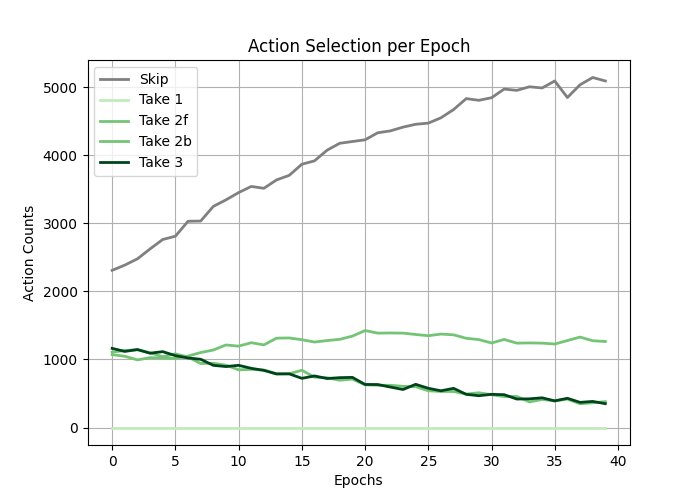
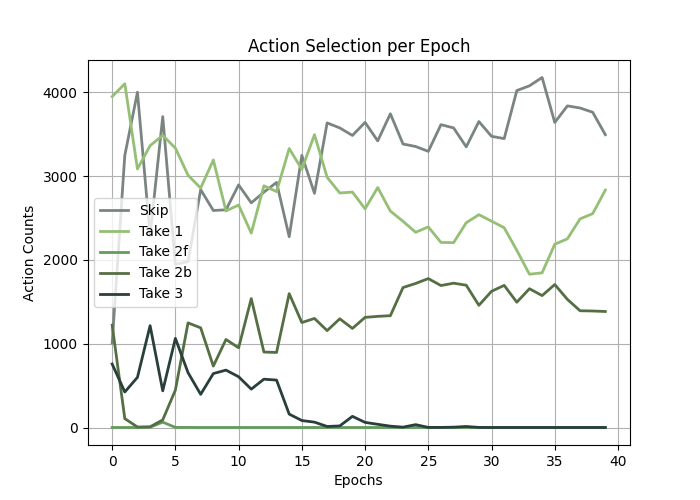
paper work

diff --git a/retrieval/retrieval_5_1_rl_train.py b/retrieval/retrieval_5_1_rl_train.py
@@ -23,7 +23,7 @@ random.seed(1)
 torch.manual_seed(1)
 
 
-def evaluate(data, query_ids, online_net, device, max_exp_loops):
+def evaluate(data, query_ids, online_net, device, max_exp_loops, history, epoch):
     """Evaluate the model on validation set without training"""
     val_reward = 0
     val_f1_score = 0
@@ -34,6 +34,8 @@ def evaluate(data, query_ids, online_net, device, max_exp_loops):
     a3 = 0
     a1 = 0
     s = 0
+
+    epoch_counts = {'skip': 0, 'take_1': 0, 'take_2n': 0, 'take_2p': 0, 'take_3': 0}
 
     for query_id in query_ids:
         query = data.get_query_obj_from_id(query_id)
@@ -68,19 +70,19 @@ def evaluate(data, query_ids, online_net, device, max_exp_loops):
 
                 if action == 0:
                     next_emb, next_meta, reward, done, truncated = topic.skip()
-                    #s += 1
+                    epoch_counts['skip'] += 1
                 elif action == 1:
                     next_emb, next_meta, reward, done, truncated= topic.take_single()
-                    #a1 += 1
+                    epoch_counts['take_1'] += 1
                 elif action == 2:
                     next_emb, next_meta, reward, done, truncated = topic.take_double()
-                    #a2f += 1
+                    epoch_counts['take_2n'] += 1
                 elif action == 3:
                     next_emb, next_meta, reward, done, truncated = topic.take_prev_double()
-                    #a2b += 1
+                    epoch_counts['take_2p'] += 1
                 elif action == 4:
                     next_emb, next_meta, reward, done, truncated = topic.take_triple()
-                    #a3 += 1
+                    epoch_counts['take_3'] += 1
 
                 logging.info(f"{action_log}, Action Code: {action}, Reward: {reward:.4f}")
 
@@ -101,10 +103,12 @@ def evaluate(data, query_ids, online_net, device, max_exp_loops):
     avg_val_f1_score = val_f1_score / len(query_ids)
     avg_val_recall = val_recall / len(query_ids)
     avg_val_precision = val_precision / len(query_ids)
+    epoch_counts['epoch'] = epoch
+    history.append(epoch_counts)
 
     #print(s, a1, a2f, a2b, a3)
 
-    return avg_val_reward, avg_val_f1_score, avg_val_recall, avg_val_precision
+    return avg_val_reward, avg_val_f1_score, avg_val_recall, avg_val_precision, history
 
 def train():
 
@@ -142,6 +146,7 @@ def train():
     eta_min = 3e-6
     warm_up_epoches = 20
     neg_schedule = torch.linspace(0.30, 0.50, steps=50)
+    history = []
 
 
     es = EarlyStopping(patience=10, delta_ratio=0.001) #12? #15? #10?
@@ -177,12 +182,10 @@ def train():
     val_rewards = []
     train_recalls = []
     val_recalls = []
-    history = []
     for epoch in range(epochs):
         online_net.train()
         epoch_reward = 0
         epoch_f1_score = 0
-        epoch_counts = {'skip': 0, 'take_1': 0, 'take_2n': 0, 'take_2p': 0, 'take_3': 0}
         random.shuffle(train_set)
 
         # Log current learning rate
@@ -237,20 +240,14 @@ def train():
 
                 if action == 0:
                     next_emb, next_meta, reward, done, truncated = topic.skip()
-                    epoch_counts['skip'] += 1
                 elif action == 1:
                     next_emb, next_meta, reward, done, truncated= topic.take_single()
-                    epoch_counts['take_1'] += 1
                 elif action == 2:
                     next_emb, next_meta, reward, done, truncated = topic.take_double()
-                    epoch_counts['take_2n'] += 1
                 elif action == 3:
                     next_emb, next_meta, reward, done, truncated = topic.take_prev_double()
-                    epoch_counts['take_2p'] += 1
                 elif action == 4:
                     next_emb, next_meta, reward, done, truncated = topic.take_triple()
-                    epoch_counts['take_3'] += 1
-
                 #logging.info(f"{action_log}, Action Code: {action}, Reward: {reward:.4f}, Rand: {int(rand)}")
 
                 next_emb = next_emb.to(device)
@@ -321,25 +318,23 @@ def train():
 
         scheduler.step()
 
-        epoch_counts['epoch'] = epoch
-        history.append(epoch_counts)
 
         online_net.eval()
 
-        avg_train_reward, avg_train_f1_score, recall_train, precision_train = evaluate(
-            data, train_set, online_net, device,
-            max_exp_loops
-        )
-        logging.info(f"GREEDY: Train Reward: {avg_train_reward:.4f}, Val F1: {avg_train_f1_score:.4f}")
-        print(f"GREEDY: Train - Reward: {avg_train_reward:.4f}, F1: {avg_train_f1_score:.4f}, Recall {recall_train:.4f}, Precision {precision_train:.4f}")
-        train_f1_scores.append(avg_train_f1_score)
-        train_rewards.append(avg_train_reward)
-        train_recalls.append(recall_train)
+        # avg_train_reward, avg_train_f1_score, recall_train, precision_train, history = evaluate(
+        #     data, train_set, online_net, device,
+        #     max_exp_loops, history, epoch
+        # )
+        # logging.info(f"GREEDY: Train Reward: {avg_train_reward:.4f}, Val F1: {avg_train_f1_score:.4f}")
+        # print(f"GREEDY: Train - Reward: {avg_train_reward:.4f}, F1: {avg_train_f1_score:.4f}, Recall {recall_train:.4f}, Precision {precision_train:.4f}")
+        # train_f1_scores.append(avg_train_f1_score)
+        # train_rewards.append(avg_train_reward)
+        # train_recalls.append(recall_train)
 
 
-        avg_val_reward, avg_val_f1_score, recall_val, precision_val = evaluate(
+        avg_val_reward, avg_val_f1_score, recall_val, precision_val, history = evaluate(
             data, validation_set, online_net, device,
-            max_exp_loops
+            max_exp_loops, history, epoch
         )
         logging.info(f"GREEDY: Val Reward: {avg_val_reward:.4f}, Val F1: {avg_val_f1_score:.4f}")
         print(f"GREEDY: Validation - Reward: {avg_val_reward:.4f}, F1: {avg_val_f1_score:.4f}, Recall {recall_val:.4f}, Precision {precision_val:.4f}")
@@ -388,11 +383,11 @@ def train():
     plt.figure(figsize=(7, 5))
 
     # Plot each series manually to control colors exactly
-    plt.plot(df['skip'], label='Skip', color='grey', linewidth=2)
-    plt.plot(df['take_1'], label='Take 1', color='#C2EABD', linewidth=2)    # Light Green
-    plt.plot(df['take_2p'], label='Take 2f', color='#74C476', linewidth=2)  # Mid Green
-    plt.plot(df['take_2n'], label='Take 2b', color='#74C476', linewidth=2)  # Mid Green
-    plt.plot(df['take_3'], label='Take 3', color='#00441B', linewidth=2)    # Dark Green
+    plt.plot(df['skip'], label='Skip', color='#7A8582', linewidth=2)
+    plt.plot(df['take_1'], label='Take 1', color='#95bf74', linewidth=2)    # Light Green
+    plt.plot(df['take_2p'], label='Take 2f', color='#659b5e', linewidth=2)  # Mid Green
+    plt.plot(df['take_2n'], label='Take 2b', color='#556f44', linewidth=2)  # Mid Green
+    plt.plot(df['take_3'], label='Take 3', color='#283f3b', linewidth=2)    # Dark Green
 
     plt.legend()
     plt.xlabel('Epochs')

diff --git a/retrieval/retrieval_5_3_analysis.py b/retrieval/retrieval_5_3_analysis.py
@@ -132,6 +132,8 @@ def process_all_queries(final_data, completeness_threshold, topk, return_avg_sco
     cos_sim_recall_scores = []
     cos_sim_precision_scores = []
     cos_sim_fpr_scores = []
+    rl_cm = {'TP': 0, 'FP': 0, 'FN': 0, 'TN': 0}
+    cs_cm = {'TP': 0, 'FP': 0, 'FN': 0, 'TN': 0}
 
 
     for item in final_data:
@@ -181,6 +183,24 @@ def process_all_queries(final_data, completeness_threshold, topk, return_avg_sco
                 
         rl_f1, rl_recall, rl_precision, rl_fpr = f1_score(rl_model_retrieved_filtered, relevant_chunks_filtered, item['total_chunks_count'])
         cos_sim_f1, cos_sim_recall, cos_sim_precision, cos_sim_fpr = f1_score(cos_sim_retrieved_chunks_filtered, relevant_chunks_filtered, item['total_chunks_count'])
+
+        rl_tp = len(set(rl_model_retrieved_filtered) & set(relevant_chunks_filtered))
+        rl_fp = len(set(rl_model_retrieved_filtered) - set(relevant_chunks_filtered))
+        rl_fn = len(set(relevant_chunks_filtered) - set(rl_model_retrieved_filtered))
+        rl_tn = item['total_chunks_count'] - (rl_tp + rl_fp + rl_fn)
+        rl_cm['TP'] += rl_tp
+        rl_cm['FP'] += rl_fp
+        rl_cm['FN'] += rl_fn
+        rl_cm['TN'] += rl_tn
+
+        cs_tp = len(set(cos_sim_retrieved_chunks_filtered) & set(relevant_chunks_filtered))
+        cs_fp = len(set(cos_sim_retrieved_chunks_filtered) - set(relevant_chunks_filtered))
+        cs_fn = len(set(relevant_chunks_filtered) - set(cos_sim_retrieved_chunks_filtered))
+        cs_tn = item['total_chunks_count'] - (cs_tp + cs_fp + cs_fn)
+        cs_cm['TP'] += cs_tp
+        cs_cm['FP'] += cs_fp
+        cs_cm['FN'] += cs_fn
+        cs_cm['TN'] += cs_tn
         
         rl_scores.append(rl_f1)
         rl_recall_scores.append(rl_recall)
@@ -245,6 +265,14 @@ def process_all_queries(final_data, completeness_threshold, topk, return_avg_sco
     variation = ((rl_f1_avg - cs_f1_avg) / cs_f1_avg) * 100
     print(f"\nF1 Score Variation: {(rl_f1_avg - cs_f1_avg):.4f}, {variation:.4f}%")
 
+    print(f"\n--- RL Model Confusion Matrix (Aggregated) ---")
+    print(f"  TP: {rl_cm['TP']:>6}    FP: {rl_cm['FP']:>6}")
+    print(f"  FN: {rl_cm['FN']:>6}    TN: {rl_cm['TN']:>6}")
+
+    print(f"\n--- Cos-Sim Confusion Matrix (Aggregated) ---")
+    print(f"  TP: {cs_cm['TP']:>6}    FP: {cs_cm['FP']:>6}")
+    print(f"  FN: {cs_cm['FN']:>6}    TN: {cs_cm['TN']:>6}")
+
     return filtered_results
 
 def plot_relevance_coverage(thresholds, final_data):
@@ -281,7 +309,7 @@ def plot_relevance_coverage(thresholds, final_data):
             color="tomato", linewidth=1.5, linestyle=":", alpha=0.8,
             label=f"CS trend (slope={cs_fit.c[0]:+.3f})")
 
-    ax.set_xlabel("Completeness Threshold", fontsize=12)
+    ax.set_xlabel("Relevance Coverage", fontsize=12)
     ax.set_ylabel("Recall", fontsize=12)
     ax.set_title("Recall: RL vs Cosine Similarity over Relevance Coverage C")
     ax.set_xticks(thresholds_arr)
@@ -316,7 +344,7 @@ def analyze():
     print(f"Average Cosine Similarity F1 Score: {metrics['avg_cos_sim_f1_score']:.6f}")
     print(f"{'='*50}")
 
-    completeness_threshold = 0 # 0.8 means chunks with more than 80% relevant are removed
+    completeness_threshold = 1.1 # 0.8 means chunks with more than 80% relevant are removed
 
     filtered_results = process_all_queries(final_data, completeness_threshold, topk = 100)
 

diff --git a/retrieval/retrieval_5_2_rl_test.py b/retrieval/retrieval_5_2_rl_test.py
@@ -16,8 +16,8 @@ from retrieval.DuelingDQN import DuelingDQN
 
 
 now_str = datetime.now().strftime("%Y-%m-%d %H:%M:%S")
-random.seed(1)
-torch.manual_seed(1)
+random.seed(39)
+torch.manual_seed(39)
 
 
 def compute_stream_feature_importance(online_net, data, query_ids, device, max_exp_loops, n_samples=1000):
@@ -145,7 +145,7 @@ def compute_stream_feature_importance(online_net, data, query_ids, device, max_e
     value_scores = np.concatenate([meta_mean_v, emb_mean_v_groups])
     adv_scores = np.concatenate([meta_mean_a, emb_mean_a_groups])
 
-    sort_idx = np.argsort(adv_scores)
+    sort_idx = np.argsort(value_scores)
     labels = [labels[i] for i in sort_idx]
     value_scores = value_scores[sort_idx]
     adv_scores = adv_scores[sort_idx]
@@ -164,7 +164,7 @@ def compute_stream_feature_importance(online_net, data, query_ids, device, max_e
     plt.legend()
     plt.tight_layout()
     plt.grid(True)
-    plt.savefig("feature_importance/value_vs_advantage_importance.png")
+    plt.savefig("value_vs_advantage_importance.png")
     plt.close()
 
 
@@ -305,6 +305,6 @@ def test():
     data_train.load_cosine_sim()
 
     compute_stream_feature_importance(
-        model, data_train, data_train.query_ids, device, max_exp_loops = 1, n_samples=200 #  + validation_set
+        model, data_train, data_train.query_ids, device, max_exp_loops = 1, n_samples=100 #  + validation_set
     )
 

diff --git a/main.py b/main.py
@@ -19,7 +19,7 @@ def main():
     #cos_sim()
 
     # Traing of RL Model
-    #train()
+    train()
 
     # Get test data
     # extract('test')
@@ -29,7 +29,7 @@ def main():
     # Evaluate RL model on test data using trained model
     #test()
 
-    analyze()
+    #analyze()
 
 
 
